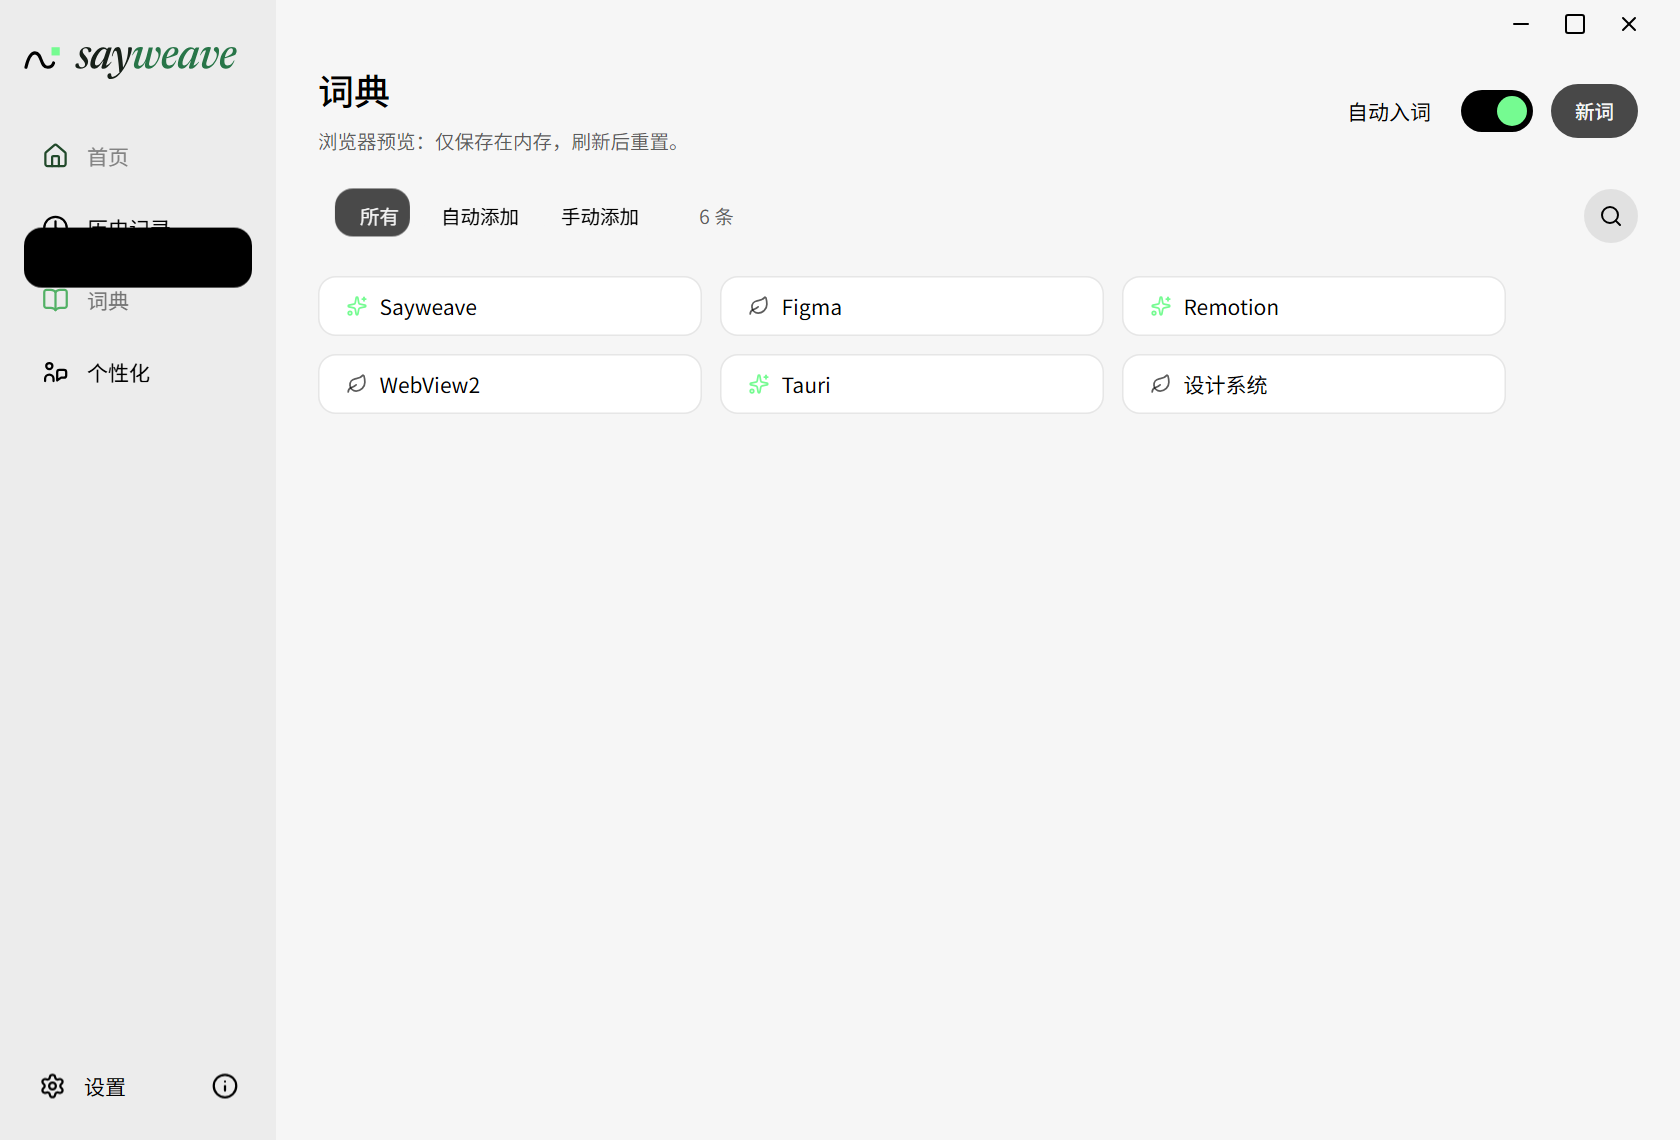
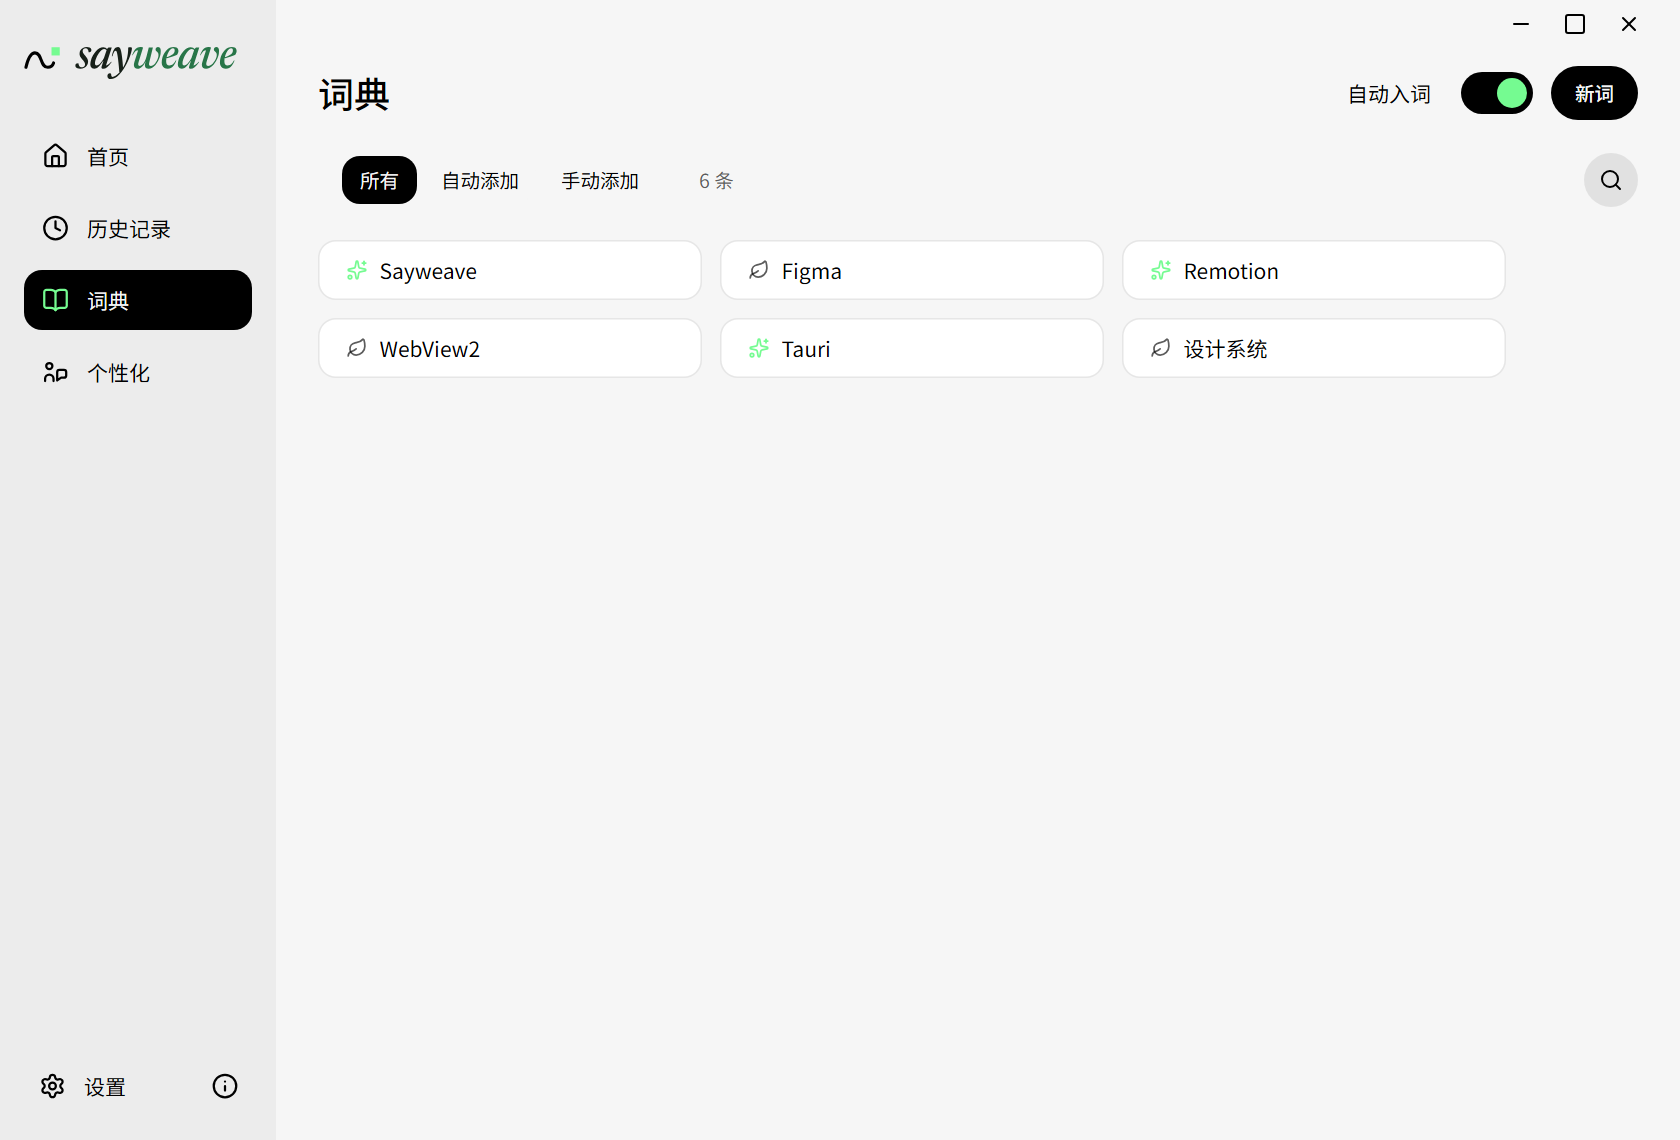
docs: refine dictionary screenshot and media provenance

diff --git a/docs/images/readme/provenance.md b/docs/images/readme/provenance.md
@@ -20,4 +20,4 @@
 
 截图使用产品前端入口、原有组件和布局，由浏览器渲染。记录、词条、设备及配置元数据通过内存适配器提供。
 
-文件尺寸、时长与 SHA-256 见 [素材清单](manifest.json)。
+[素材清单](manifest.json) 记录 Git 分发字节的尺寸、时长与 SHA-256；SVG 使用 LF 换行。
